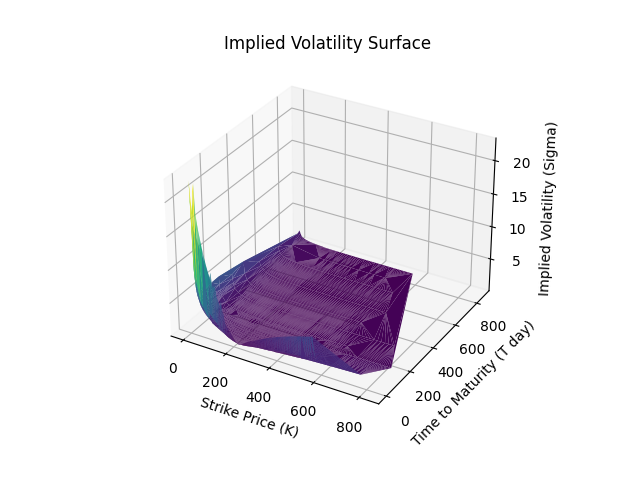
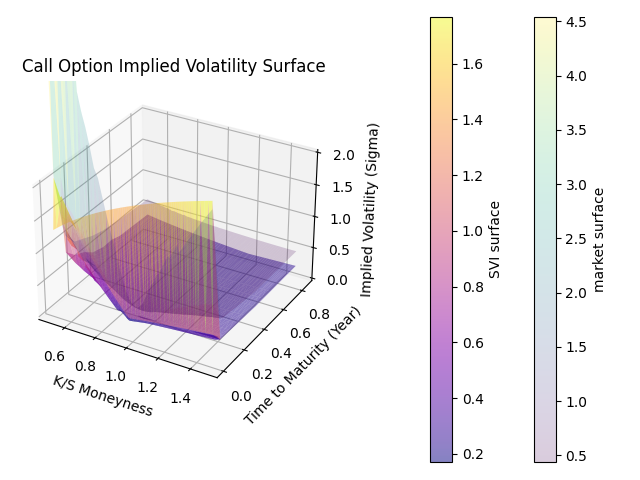
fit svi model

diff --git a/question6.py b/question6.py
@@ -7,6 +7,9 @@ from utils import Binomial, European_option_price
 import os
 import matplotlib.pyplot as plt
 from mpl_toolkits.mplot3d import Axes3D
+import matplotlib.patches as mpatches
+import torch
+import torch.nn as nn
 
 def deAmericanize(option, K, T, S, target_price, r, q, sigma_low, sigma_high, epsilon):
     count = 0
@@ -15,17 +18,33 @@ def deAmericanize(option, K, T, S, target_price, r, q, sigma_low, sigma_high, ep
         sigma_mid = (sigma_low + sigma_high) / 2
         curr_price = European_option_price(option, S, r, q, K, T, sigma_mid)
         # print(f'Current sigma = {sigma_mid}, price diff = {abs(curr_price - target_price)}')
-        count += 1
-        if count > 1000:
-            # the search interval length would be of sigma_high / 2**20, very small
-            # meaning that the sigma is likely to be out of boundary, binary search fails
-            return -1
+#         count += 1
+#         if count > 1000:
+#             # the search interval length would be of sigma_high / 2**20, very small
+#             # meaning that the sigma is likely to be out of boundary, binary search fails
+#             return -1
         if curr_price < target_price - epsilon:
             sigma_low = sigma_mid
         elif curr_price > target_price + epsilon:
             sigma_high = sigma_mid
         else:
             return sigma_mid
+
+class SVI_Model(nn.Module):
+    def __init__(self):
+        super().__init__()
+        self.a = nn.Parameter(torch.tensor(0.))
+        self.b = nn.Parameter(torch.tensor(0.))
+        self.rho = nn.Parameter(torch.tensor(0.))
+        self.m = nn.Parameter(torch.tensor(0.))
+        self.sigma = nn.Parameter(torch.tensor(0.))
+    
+    def forward(self, k):
+        var = self.a + self.b * (self.rho * (k - self.m) + torch.sqrt((k - self.m)**2 + self.sigma**2))
+        return var
+
+def get_SVI_param_from_model(model):
+    return np.round(np.array([model.a.item(), model.b.item(), model.rho.item(), model.m.item(), model.sigma.item()]), 4)
 
 if __name__ == '__main__':
     
@@ -37,16 +56,22 @@ if __name__ == '__main__':
         data = pd.read_csv(results_path)
     else:
         data = pd.read_csv('ProjectOptionData.csv')
-    
+        
+        print(f'Original data size: {len(data)}')
         # prune untraded S and anomaly
         data[f' [{option}_LAST]'] = data[f' [{option}_LAST]'].str.strip()
         data[f' [{option}_LAST]'].replace('', '0', inplace=True)
-        data = data[data[f' [{option}_LAST]'] != '0'].reset_index(drop=True)
-
-        S = data[f' [UNDERLYING_LAST]'] # 219.19
-        K = data[f' [STRIKE]']
-        T = data[f' [DTE]'] / 365
-        option_price = data[f' [{option}_ASK]'].astype(float)
+        data = data[data[f' [{option}_LAST]'] != '0']
+        # we only use TTM <= 1 year data and K/S moneyness between 0.5 - 1.5
+        data = data[(data[' [DTE]'] <= 365) & (data[' [STRIKE]'] / data[' [UNDERLYING_LAST]'] <= 1.5) & (data[' [STRIKE]'] / data[' [UNDERLYING_LAST]'] >= 0.5)]
+        data = data.reset_index(drop=True)
+        print(f'Fileter data size: {len(data)}')
+        
+        S = data[' [UNDERLYING_LAST]'] # 219.19
+        K = data[' [STRIKE]']
+        data['TTM'] = T = data[' [DTE]'] / 365
+        option_price = (data[f' [{option}_ASK]'].astype(float) + data[f' [{option}_BID]'].astype(float)) / 2 # use the middle price
+        data[f'{option}_PRICE'] = option_price
         r = 0.05
         q = 0
         #     sigma = 0.2
@@ -64,18 +89,58 @@ if __name__ == '__main__':
             calibrated_sigma = deAmericanize(option, K[i], T[i], float(S[i]), option_price[i], r, q, sigma_low, sigma_high, epsilon)
             calibrated_sigmas.append(calibrated_sigma)
 #             tqdm.write(f'K = {K[i]}, T = {T[i]}, S = {S[i]}, ask = {option_price[i]}, calibrated sigma = {calibrated_sigma}')
-        data['sigma'] = calibrated_sigmas
-        data = data[data['sigma'] != -1]
-        data = data[[f' [UNDERLYING_LAST]', ' [STRIKE]', ' [DTE]', f' [{option}_ASK]', 'sigma']]
+        data['SIGMA'] = calibrated_sigmas
+        data = data[data['SIGMA'] != -1]
+        data['K/S'] = data[' [STRIKE]'] / data[' [UNDERLYING_LAST]'] # K/S moneyness
+        data = data[[f' [UNDERLYING_LAST]', 'K/S', 'TTM', f'{option}_PRICE', 'SIGMA']]
         data.to_csv(results_path)
-        
     
+    # fit svi model
+    svi_results_path = f'project_{option}_svi.csv'
+    if os.path.exists(svi_results_path):
+        data = pd.read_csv(svi_results_path)
+    else:
+        EPOCHS = 200
+        criterion = nn.L1Loss()
+        grouped = data.groupby('TTM')
+        for group_name, group_df in grouped:
+            print(f"Fitting model when TTM = {group_name}")
+            model = SVI_Model()
+            optimizer = torch.optim.Adam(model.parameters(), lr=0.01) # using SGD for optimization
+            model.train()
+            k = torch.log(torch.from_numpy(group_df['K/S'].values)) # log-moneyness
+            var = torch.from_numpy(group_df['SIGMA'].values)**2 # variance is sigma**2
+        
+            loss = torch.tensor(float('inf'))
+            for epoch in range(EPOCHS):
+                pred_var = model(k)
+                loss = criterion(pred_var, var)
+                optimizer.zero_grad()
+                loss.backward()
+                optimizer.step()
+                if (epoch + 1) % 10 == 0:
+                    print(f'In Epoch [{epoch + 1} / {EPOCHS}], loss (mean difference between model predicted variance and market variance) = {loss.item()}')
+            model.eval()
+            data.loc[group_df.index, 'PRED_SIGMA'] = model(k).detach().numpy()
+            print(f'At TTM = {group_name}, (a, b, m, ρ, σ) = ({get_SVI_param_from_model(model)})')
+            print("-" * 40)
+        data.to_csv(svi_results_path)
+            
+    # plot the implied volatility surface
     fig = plt.figure()
     ax = fig.add_subplot(111, projection='3d')
-    ax.plot_trisurf(data[' [STRIKE]'], data[' [DTE]'], data['sigma'], cmap='viridis')
-    ax.set_xlabel('Strike Price (K)')
-    ax.set_ylabel('Time to Maturity (T day)')
+    market_surf = ax.plot_trisurf(data['K/S'], data['TTM'], data['SIGMA'], cmap='viridis', alpha=0.2, label='market surface')
+    svi_surf = ax.plot_trisurf(data['K/S'], data['TTM'], data['PRED_SIGMA'], cmap='plasma', alpha=0.5, label='SVI surface')
+    ax.set_xlabel('K/S Moneyness')
+    ax.set_ylabel('Time to Maturity (Year)')
     ax.set_zlabel('Implied Volatility (Sigma)')
-    ax.set_title('Implied Volatility Surface')
+    ax.set_zlim(0,2)
+    option_name = {'C':'Call', 'P':'Put'}
+    ax.set_title(f'{option_name[option]} Option Implied Volatility Surface')
+    
+    fig.colorbar(market_surf, label='market surface')
+    fig.colorbar(svi_surf, pad=0.2, label='SVI surface')
+    fig.tight_layout()
     plt.savefig('question6.png')
+    
 
